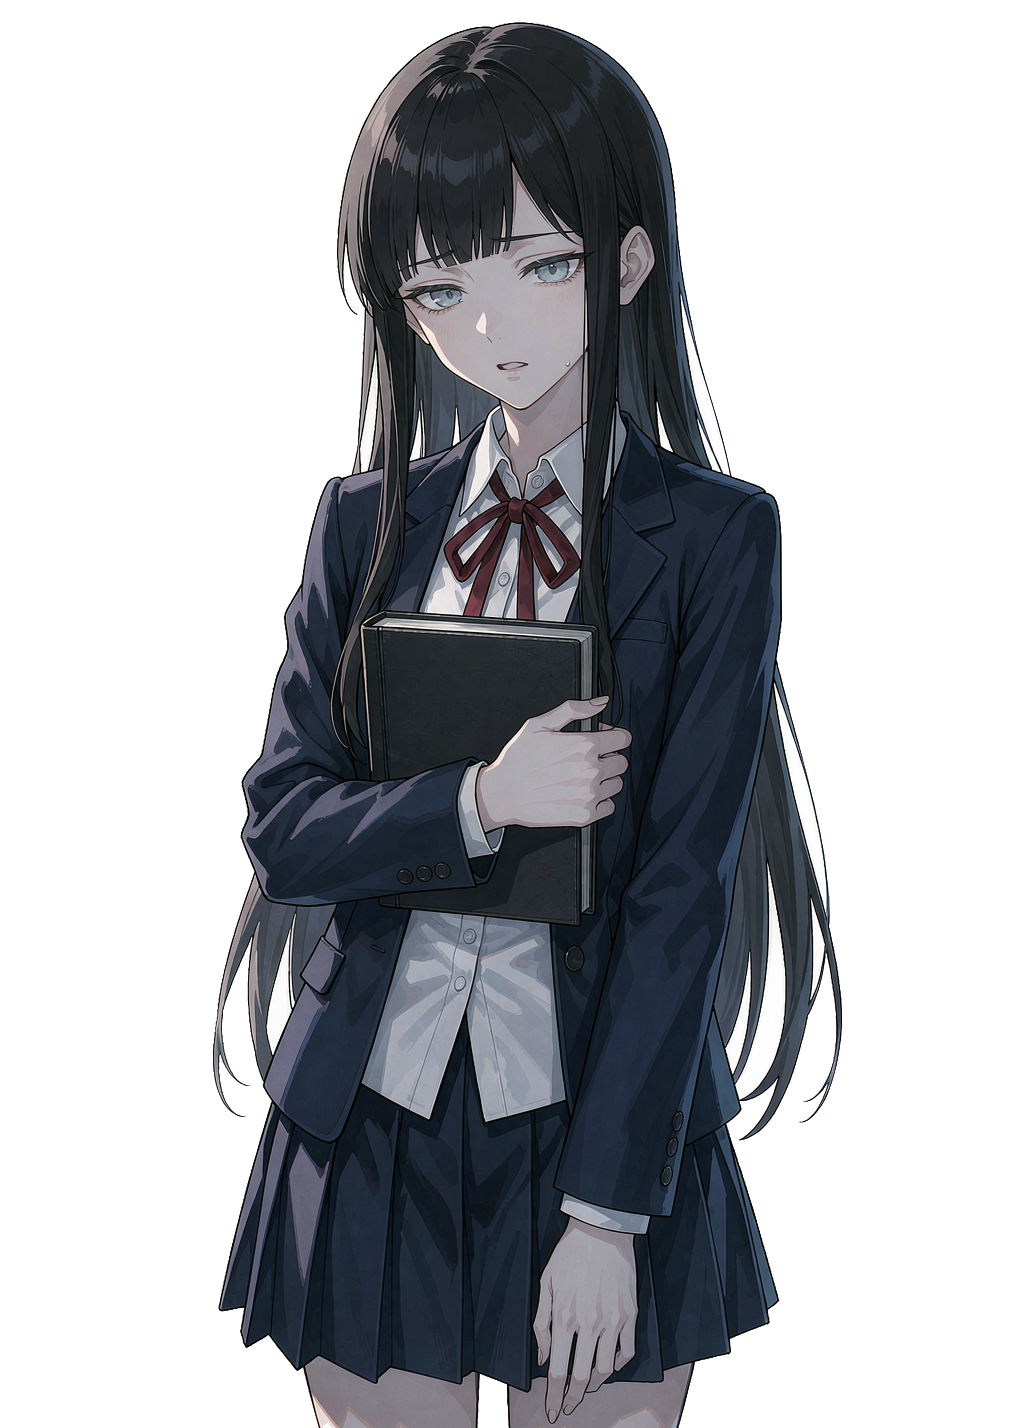
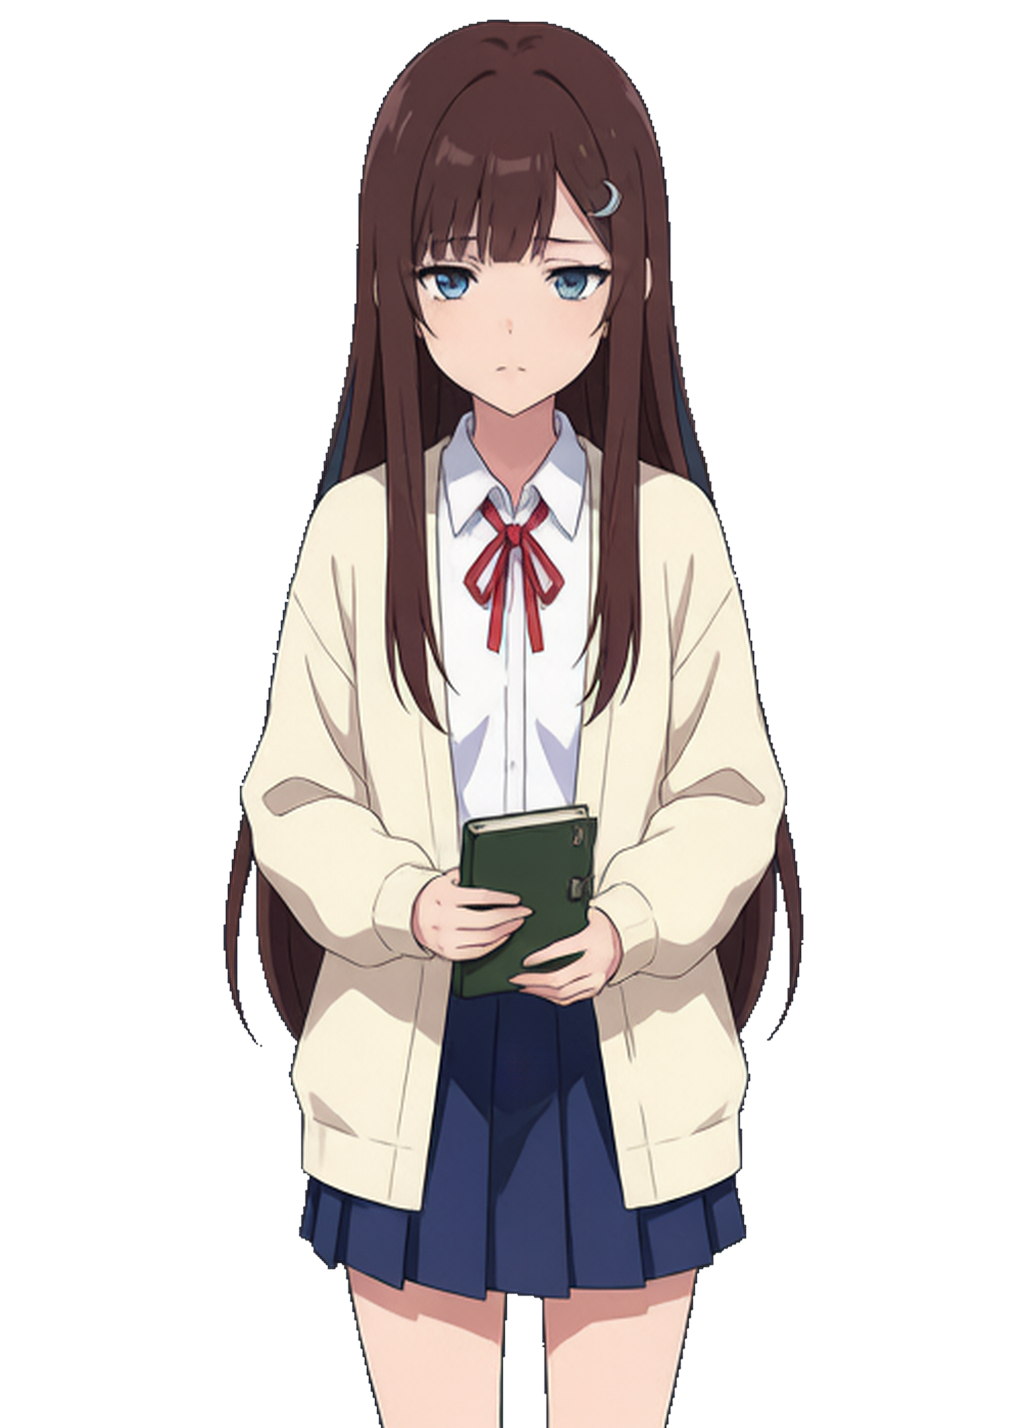
redesign suhe: chestnut hair + cream cardigan, feminine cues; sync story text

diff --git a/js/story.js b/js/story.js
@@ -153,7 +153,7 @@ const STORY = {
       { t: '说是"社"，其实只有两个人——我和社长。' },
       { show: 'suhe', pose: 'normal', at: 'right' },
       { t: '苏禾学姐坐在窗边，膝盖上摊着一本厚厚的册子。' },
-      { t: '黑长直，校服外套从来不系扣子，露出里面白衬衫的领子。' },
+      { t: '栗色的长直发垂到腰间，别着一枚银色的月牙发夹。米色的开衫从来不系扣子，露出里面白衬衫的领子。' },
       { t: '她是那种你从走廊另一头就认得出来的人。' },
       { t: '不是因为好看。是因为她身上有种"别过来"的东西。' },
       { say: '林砚', text: '学姐，下周的观测会——' },
